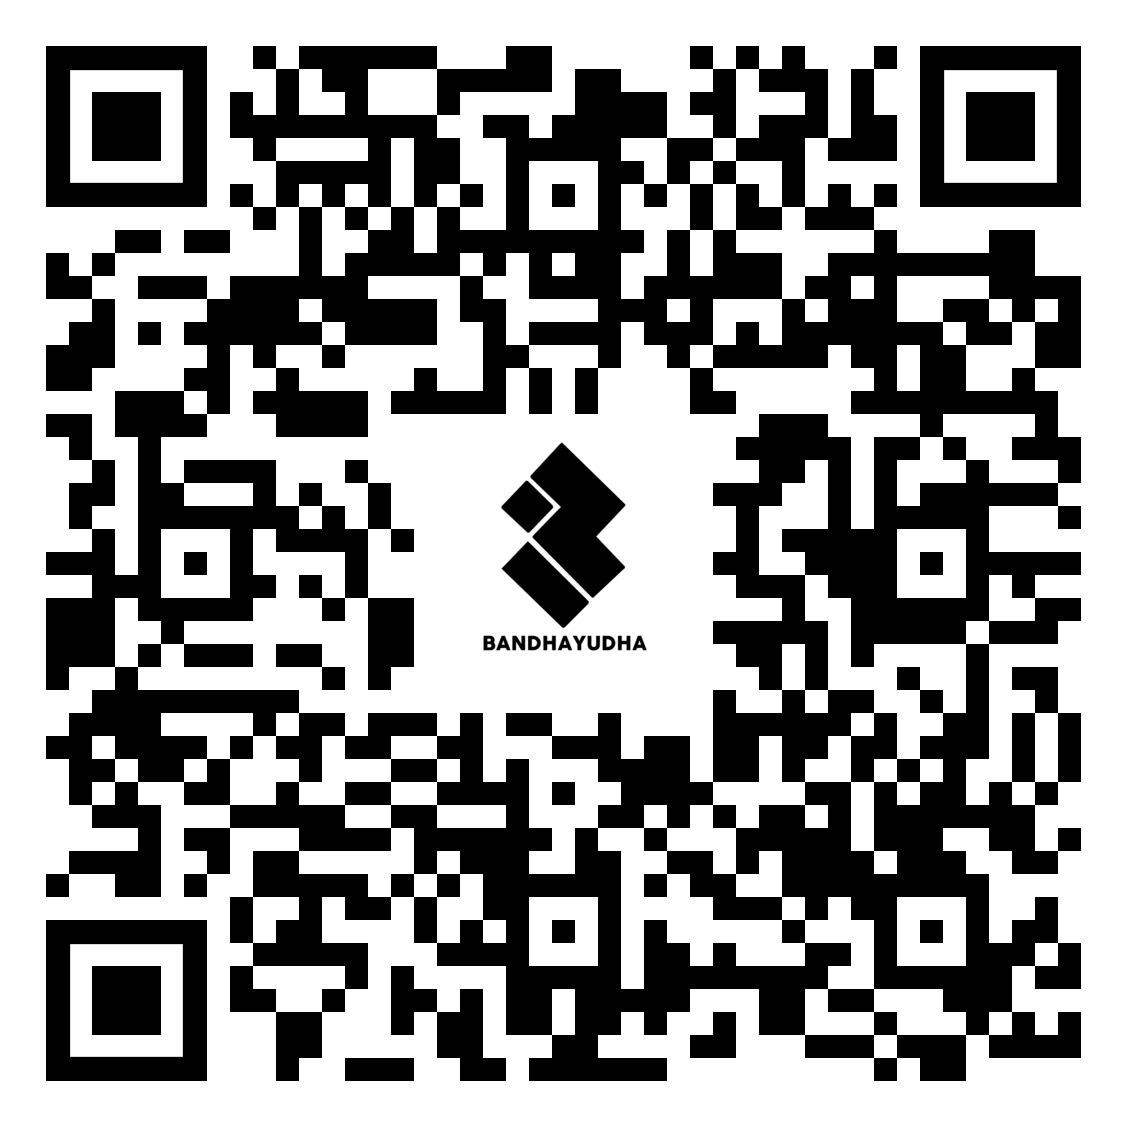
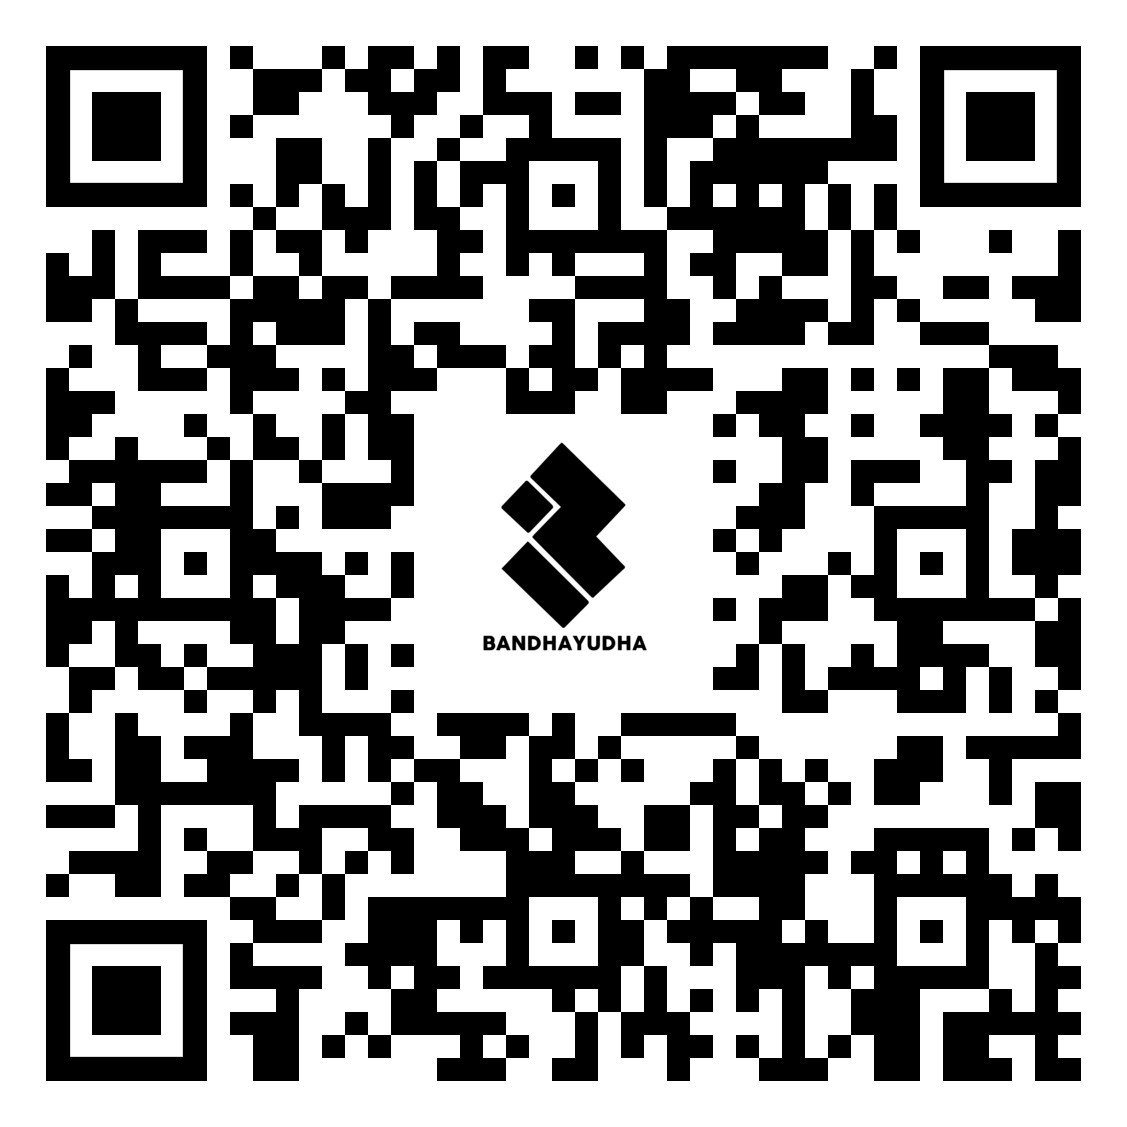
pengumuman magang

diff --git a/src/lib/pesertaData.ts b/src/lib/pesertaData.ts
@@ -16,7 +16,7 @@ export interface PesertaData {
 // Function to automatically generate message based on status
 const generateMessage = (status: 'LOLOS' | 'TIDAK LOLOS'): string => {
   if (status === 'LOLOS') {
-    return 'Selamat! Anda lolos ke tahap wawancara. Silakan bergabung dengan grup WhatsApp untuk informasi lebih lanjut.';
+    return 'Selamat! Anda diterima magang Bandhayudha. Silakan bergabung dengan grup WhatsApp untuk informasi lebih lanjut.';
   }
   return 'Mohon maaf belum berhasil kali ini. Terima kasih atas partisipasi Anda dan semangat untuk kesempatan berikutnya!';
 };
@@ -59,7 +59,7 @@ const loadCSVData = async (): Promise<PesertaData[]> => {
                 fakultas: fakultas,
                 divisi: divisi,
                 pesan_khusus: generateMessage(status),
-                whatsapp_link: status === 'LOLOS' ? 'https://chat.whatsapp.com/HygTyDHTuTcAbf9YPhaId7?mode=ems_copy_t' : undefined
+                whatsapp_link: status === 'LOLOS' ? 'https://chat.whatsapp.com/LQrfAGr2wAi5zv6UUbq6Hi?mode=ems_copy_t' : undefined
               };
             }).filter(p => p.username && p.token && p.nama);
             
@@ -91,7 +91,7 @@ const getFallbackData = (): PesertaData[] => {
       fakultas: "Fakultas Teknik",
       divisi: "Elektrik",
       pesan_khusus: generateMessage("LOLOS"),
-      whatsapp_link: "https://chat.whatsapp.com/HygTyDHTuTcAbf9YPhaId7?mode=ems_copy_t"
+      whatsapp_link: "https://chat.whatsapp.com/LQrfAGr2wAi5zv6UUbq6Hi?mode=ems_copy_t"
     },
     {
       username: "rizky.afitra",

diff --git a/src/components/CountdownTimer.tsx b/src/components/CountdownTimer.tsx
@@ -61,7 +61,7 @@ export const CountdownTimer = ({ targetDate, onComplete }: CountdownTimerProps) 
             Pengumuman Segera Dibuka
           </h1>
           <p className="text-lg md:text-xl text-muted-foreground max-w-2xl mx-auto px-4">
-            Portal pengumuman hasil seleksi berkas magang UNDIP Abu Robocon Research Team
+            Portal pengumuman hasil seleksi lolos magang UNDIP Abu Robocon Research Team
             akan dibuka dalam:
           </p>
         </div>
@@ -78,14 +78,13 @@ export const CountdownTimer = ({ targetDate, onComplete }: CountdownTimerProps) 
             Informasi Penting
           </h3>
           <ul className="text-muted-foreground text-left space-y-2">
-            <li>• Peserta yang lolos akan lanjut ke tahap wawancara</li>
-            <li>• Peserta yang lolos akan diarahkan ke grup lolos seleksi berkas</li>
+            <li>• Peserta yang lolos akan diarahkan ke grup lolos seleksi magang Bandhayudha</li>
           </ul>
         </div>
 
         <div className="mt-8 text-sm text-muted-foreground">
           <p>UNDIP Abu Robocon Research Team</p>
-          <p className="mt-1">Portal Pengumuman Seleksi Magang 2025</p>
+          <p className="mt-1">Portal Pengumuman Seleksi Magang Bandhayudha 2025</p>
         </div>
       </Card>
     </div>

diff --git a/src/components/AnnouncementDashboard.tsx b/src/components/AnnouncementDashboard.tsx
@@ -41,9 +41,9 @@ export const AnnouncementDashboard = ({ pesertaData, onLogout }: AnnouncementDas
   const statusBg = isAccepted ? "bg-success/10" : "bg-destructive/10";
 
   const nextSteps = isAccepted ? [
-    "Bergabung dengan grup WhatsApp peserta lolos",
-    "Cek group Whatsapp untuk jadwal wawancara",
-    "Datang tepat waktu sesuai jadwal wawancara yang diberikan"
+    "Bergabung dengan grup WhatsApp peserta yang diterima magang",
+    "Cek group Whatsapp untuk jadwal orientasi dan informasi lebih lanjut",
+    "Bersiap untuk memulai kegiatan magang sesuai jadwal yang diberikan"
   ] : [
     "Jangan berkecil hati, tingkatkan skill dan pengalaman",
     "Ikuti program magang selanjutnya",
@@ -112,7 +112,7 @@ export const AnnouncementDashboard = ({ pesertaData, onLogout }: AnnouncementDas
                 <div>
                   <p className="font-medium text-foreground">Status Seleksi</p>
                   <p className="text-muted-foreground">
-                    {isAccepted ? "Lolos ke Tahap Wawancara" : "Belum Lolos Seleksi Berkas"}
+                    {isAccepted ? "Diterima Magang" : "Belum Lolos Seleksi Magang"}
                   </p>
                 </div>
               </div>

diff --git a/src/lib/timeUtils.ts b/src/lib/timeUtils.ts
@@ -15,7 +15,7 @@ export const isLoginTimeAllowed = (): boolean => {
   }
   
   const jakartaTime = getCurrentJakartaTime();
-  const allowedLoginTime = moment.tz('2025-09-24 15:00:00', 'Asia/Jakarta').toDate();
+  const allowedLoginTime = moment.tz('2025-09-28 15:00:00', 'Asia/Jakarta').toDate();
   
   return jakartaTime >= allowedLoginTime;
 };
@@ -33,7 +33,7 @@ export const getCountdownBreakdown = () => {
   }
   
   const jakartaTime = getCurrentJakartaTime();
-  const allowedLoginTime = moment.tz('2025-09-24 15:00:00', 'Asia/Jakarta').toDate();
+  const allowedLoginTime = moment.tz('2025-09-28 15:00:00', 'Asia/Jakarta').toDate();
   
   if (jakartaTime >= allowedLoginTime) {
     return { days: 0, hours: 0, minutes: 0, seconds: 0 };
@@ -57,7 +57,7 @@ export const getTimeUntilLoginAllowed = (): string => {
   }
   
   const jakartaTime = getCurrentJakartaTime();
-  const allowedLoginTime = moment.tz('2025-09-24 15:00:00', 'Asia/Jakarta').toDate();
+  const allowedLoginTime = moment.tz('2025-09-28 15:00:00', 'Asia/Jakarta').toDate();
   
   if (jakartaTime >= allowedLoginTime) {
     return 'Login sudah diperbolehkan';

diff --git a/index.html b/index.html
@@ -18,11 +18,11 @@
     <meta name="theme-color" content="#1d4ed8" />
     
     <title>Bandhayudha - Portal Pengumuman Magang 2025</title>
-    <meta name="description" content="Portal pengumuman hasil seleksi berkas magang UNDIP Abu Robocon Research Team 2025" />
+    <meta name="description" content="Portal pengumuman hasil seleksi lolos magang UNDIP Abu Robocon Research Team 2025" />
     <meta name="author" content="UNDIP Abu Robocon Research Team" />
 
     <meta property="og:title" content="Bandhayudha - Portal Pengumuman Magang 2025" />
-    <meta property="og:description" content="Portal pengumuman hasil seleksi berkas magang UNDIP Abu Robocon Research Team 2025" />
+    <meta property="og:description" content="Portal pengumuman hasil seleksi lolos magang UNDIP Abu Robocon Research Team 2025" />
     <meta property="og:type" content="website" />
     <meta property="og:url" content="https://pengumuman.bandhayudha.com" />
     <meta property="og:image" content="https://pengumuman.bandhayudha.com/logo.png" />

diff --git a/src/components/LoginForm.tsx b/src/components/LoginForm.tsx
@@ -45,7 +45,7 @@ export const LoginForm = ({ onLogin }: LoginFormProps) => {
     if (!canLogin) {
       toast({
         title: "Akses Belum Dibuka",
-        description: `Login akan dibuka pada tanggal 24 September 2025 pukul 15:00`,
+        description: `Login akan dibuka pada tanggal 28 September 2025 pukul 15:00`,
         variant: "destructive",
       });
       return;
@@ -127,7 +127,7 @@ export const LoginForm = ({ onLogin }: LoginFormProps) => {
             BANDHAYUDHA
           </h1>
           <p className={`text-black mt-2 ${deviceInfo.isMobile ? 'text-sm' : ''}`}>
-            Pengumuman Hasil Seleksi Berkas
+            Pengumuman Hasil Seleksi Lolos Magang
           </p>
         </div>
 

diff --git a/src/config/devConfig.ts b/src/config/devConfig.ts
@@ -2,7 +2,7 @@
 // Set this to 1 for development mode (bypass time restrictions)
 // Set this to 0 for production mode (use actual time restrictions)
 
-export const DEVELOPMENT_MODE = 0;
+export const DEVELOPMENT_MODE = 1;
 
 // Development mode settings
 export const DEV_CONFIG = {
@@ -21,4 +21,4 @@ export const DEV_CONFIG = {
 
 // Instructions:
 // DEVELOPMENT_MODE = 1: Can login anytime (for development/editing)
-// DEVELOPMENT_MODE = 0: Must wait until 24 September 2025 10:00 WIB (for production)
+// DEVELOPMENT_MODE = 0: Must wait until 28 September 2025 15:00 WIB (for production)

diff --git a/src/pages/Index.tsx b/src/pages/Index.tsx
@@ -9,7 +9,7 @@ const Index = () => {
   const [pesertaData, setPesertaData] = useState<PesertaData | null>(null);
   const [isAnnouncementTime, setIsAnnouncementTime] = useState(false);
 
-  // Set announcement time - for demo, set to 30 seconds from now
+  // Set announcement time - for demo, set to 20 seconds from now
   // In real implementation, this would be the actual announcement date
   const announcementDate = new Date(Date.now() + 20 * 1000);
 

diff --git a/DEVELOPMENT-MODE.md b/DEVELOPMENT-MODE.md
@@ -7,7 +7,7 @@
 1. Buka file: `src/config/devConfig.ts`
 2. Ubah nilai `DEVELOPMENT_MODE`:
    - **`DEVELOPMENT_MODE = 1`** → Login bisa kapan saja (untuk development/editing)
-   - **`DEVELOPMENT_MODE = 0`** → Login hanya bisa 24 Sept 2025 jam 10:00 WIB (untuk production)
+   - **`DEVELOPMENT_MODE = 0`** → Login hanya bisa 28 Sept 2025 jam 15:00 WIB (untuk production)
 
 ### Mode Development (DEVELOPMENT_MODE = 1)
 
@@ -29,7 +29,7 @@
 
 **🔒 Keamanan:**
 
-- Login hanya bisa mulai 24 September 2025 pukul 10:00 WIB
+- Login hanya bisa mulai 28 September 2025 pukul 15:00 WIB
 - Sesuai jadwal asli yang diminta
 - Tidak ada bypass
 - Tampilan normal untuk peserta

diff --git a/README.md b/README.md
@@ -1,6 +1,6 @@
 # Bandhayudha - Portal Pengumuman Magang 2025
 
-Portal pengumuman hasil seleksi berkas magang UNDIP Abu Robocon Research Team 2025.
+Portal pengumuman hasil seleksi lolos magang UNDIP Abu Robocon Research Team 2025.
 
 ## 🚀 **Perubahan yang Telah Dilakukan**
 
